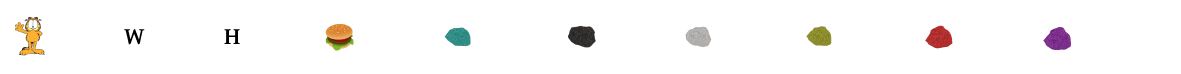
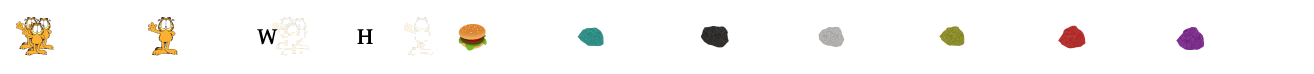
(+) number of team presents on the map is added to the top bar

diff --git a/gui/src/Game.cpp b/gui/src/Game.cpp
@@ -243,13 +243,24 @@ void Game::drawMenu() {
 
 void Game::drawMapData()
 {
-    MyRayLib::Draw::MyDrawTexture(this->_manager.getTexture(IResource::resourceType::MAPDATA).getTexture(), 370, 10, WHITE);
-    std::string tmp = ("x " + std::to_string(this->_map._players.size()));
-    MyRayLib::Draw::MyDrawText(tmp.c_str(), 420, 35, 20, WHITE);
+    int nbTeams = 0;
+    std::map<std::string, std::vector<std::string>> _teamPlayersForMap;
+    if (!this->_map._players.empty()) {
+        for (const auto& player : this->_map._players)
+            _teamPlayersForMap[player->getTeamName()].push_back("Player" + std::to_string(player->getPlayerNumber()) + ", level: " + std::to_string(player->getPlayerLevel()));
+        for (const auto& entry : _teamPlayersForMap)
+            nbTeams = _teamPlayersForMap.size();
+    }
+
+    MyRayLib::Draw::MyDrawTexture(this->_manager.getTexture(IResource::resourceType::MAPDATA).getTexture(), 297, 10, WHITE);
+    std::string tmp = ("x " + std::to_string(nbTeams));
+    MyRayLib::Draw::MyDrawText(tmp.c_str(), 360, 35, 20, WHITE);
+    tmp = ("x " + std::to_string(this->_map._players.size()));
+    MyRayLib::Draw::MyDrawText(tmp.c_str(), 480, 35, 20, WHITE);
     tmp = std::to_string(static_cast<int>(this->_map.getSize().getX()));
-    MyRayLib::Draw::MyDrawText(tmp.c_str(), 525, 35, 20, WHITE);
+    MyRayLib::Draw::MyDrawText(tmp.c_str(), 585, 35, 20, WHITE);
     tmp = std::to_string(static_cast<int>(this->_map.getSize().getY()));
-    MyRayLib::Draw::MyDrawText(tmp.c_str(), 625, 35, 20, WHITE);
+    MyRayLib::Draw::MyDrawText(tmp.c_str(), 685, 35, 20, WHITE);
 
     std::vector<IResource::resourceType> resourceTypes = {
         IResource::resourceType::BURGER,
@@ -274,19 +285,19 @@ void Game::drawMapData()
     for (auto &it : _inventoryMap) {
         std::string tmp = ( "x " + std::to_string(it.second));
         if (it.first == IResource::resourceType::BURGER)
-            MyRayLib::Draw::MyDrawText(tmp.c_str(), (735), 35, 20, WHITE);
+            MyRayLib::Draw::MyDrawText(tmp.c_str(), (735 + 60), 35, 20, WHITE);
         if (it.first == IResource::resourceType::DERAUMERE)
-            MyRayLib::Draw::MyDrawText(tmp.c_str(), (850), 35, 20, WHITE);
+            MyRayLib::Draw::MyDrawText(tmp.c_str(), (850 + 60), 35, 20, WHITE);
         if (it.first == IResource::resourceType::LINEMATE)
-            MyRayLib::Draw::MyDrawText(tmp.c_str(), (975), 35, 20, WHITE);
+            MyRayLib::Draw::MyDrawText(tmp.c_str(), (975 + 60), 35, 20, WHITE);
         if (it.first == IResource::resourceType::MENDIANE)
-            MyRayLib::Draw::MyDrawText(tmp.c_str(), (1085), 35, 20, WHITE);
+            MyRayLib::Draw::MyDrawText(tmp.c_str(), (1085 + 60), 35, 20, WHITE);
         if (it.first == IResource::resourceType::PHIRAS)
-            MyRayLib::Draw::MyDrawText(tmp.c_str(), (1210), 35, 20, WHITE);
+            MyRayLib::Draw::MyDrawText(tmp.c_str(), (1210 + 60), 35, 20, WHITE);
         if (it.first == IResource::resourceType::SIBUR)
-            MyRayLib::Draw::MyDrawText(tmp.c_str(), (1330), 35, 20, WHITE);
+            MyRayLib::Draw::MyDrawText(tmp.c_str(), (1330 + 60), 35, 20, WHITE);
         if (it.first == IResource::resourceType::THYSTAME)
-            MyRayLib::Draw::MyDrawText(tmp.c_str(), (1448), 35, 20, WHITE);
+            MyRayLib::Draw::MyDrawText(tmp.c_str(), (1448 + 60), 35, 20, WHITE);
     }
 }
 
